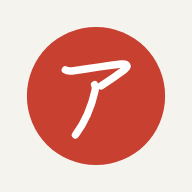
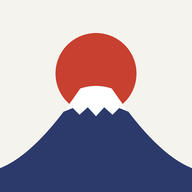
Icona app: Monte Fuji con sole rosso (#18)
Claude-Session: https://claude.ai/code/session_01UkTXiSVypCwnnLj9JRFo2p

diff --git a/index.html b/index.html
@@ -12,8 +12,9 @@
 <meta name="theme-color" content="#F5F3EE" media="(prefers-color-scheme: light)">
 <meta name="theme-color" content="#121318" media="(prefers-color-scheme: dark)">
 <link rel="manifest" href="manifest.webmanifest">
-<link rel="apple-touch-icon" href="icons/apple-touch-icon.png">
-<link rel="icon" type="image/png" href="icons/icon-192.png">
+<link rel="apple-touch-icon" href="icons/apple-touch-icon.png?v=fuji">
+<link rel="icon" type="image/svg+xml" href="icons/icon.svg">
+<link rel="icon" type="image/png" sizes="32x32" href="icons/favicon-32.png">
 <link rel="preconnect" href="https://fonts.googleapis.com">
 <link rel="preconnect" href="https://fonts.gstatic.com" crossorigin>
 <link rel="stylesheet" href="https://fonts.googleapis.com/css2?family=Klee+One:wght@400;600&family=Inter:wght@400;500;600;700&display=swap">

diff --git a/sw.js b/sw.js
@@ -1,5 +1,5 @@
 // Offline: la pagina e app.js si prendono dalla rete (aggiornamenti subito), dalla cache se manca la rete.
-const V='jca-ba926898';
+const V='jca-ba926898-fuji';
 const SHELL=['./','index.html','app.js','config.js','manifest.webmanifest','icons/icon-192.png'];
 self.addEventListener('install',e=>{self.skipWaiting();e.waitUntil(caches.open(V).then(c=>c.addAll(SHELL)).catch(()=>{}));});
 self.addEventListener('activate',e=>e.waitUntil((async()=>{for(const k of await caches.keys())if(k!==V)await caches.delete(k);await self.clients.claim();})()));
